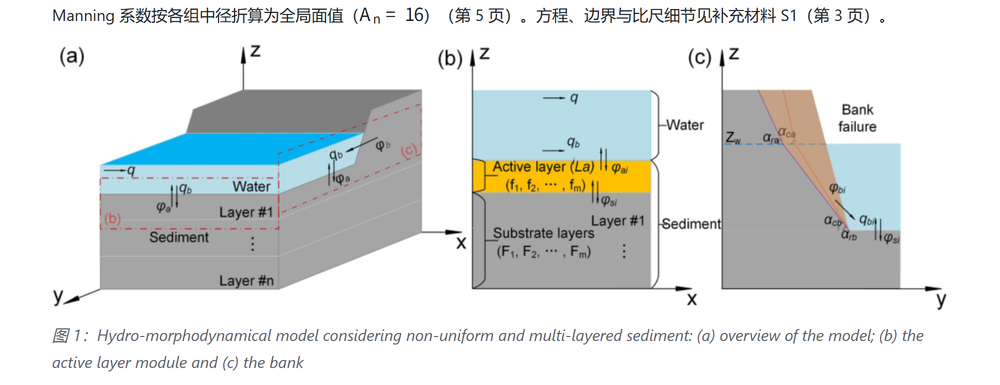
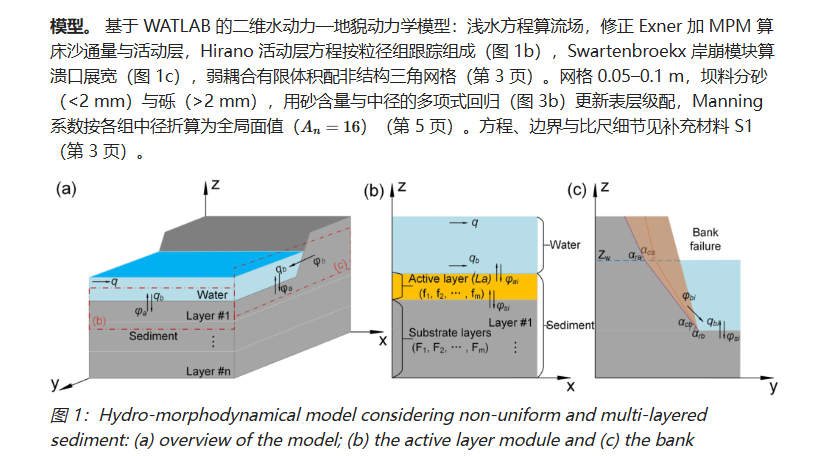
docs: 效果图换成 Obsidian 真实截图，索引图改用阅读层首页（#81）

diff --git a/docs/user-guide/cards/reading-in-obsidian.md b/docs/user-guide/cards/reading-in-obsidian.md
@@ -43,7 +43,7 @@ uv run hydrolitagent cards index --json   # 机器可读报告（含断链自检
 
 ## 现在的卡片长什么样
 
-下面几张图取自真实产物（`cards/82K3JP4F`、`cards/E7ZTFJZJ`、主题 `TH-877103b1db3d0e741b1577ae`），按阅读层排版渲染；在 Obsidian 里打开同一份文件，排版与公式渲染基本一致。
+下面几张图是把产物根当 vault 打开后的 Obsidian 截图（阅读视图；左侧边栏已收起），产物是 `cards/82K3JP4F`、`cards/E7ZTFJZJ` 与主题 `TH-877103b1db3d0e741b1577ae`。
 
 **卡片顶部**：属性、按 `validation.json` 写的真实状态（`PASS` / `REJECTED`）、标题与正文开头。
 
@@ -57,9 +57,9 @@ uv run hydrolitagent cards index --json   # 机器可读报告（含断链自检
 
 ![主题阅读页](../../assets/screenshots/theme-page.png){width=760}
 
-**卡片索引**：每篇论文只列当前选中的一份草稿，并写明选择依据。
+**阅读层首页**：`HOME.md` 一篇卡一行，点进去就是卡片；全部卡片另见 `cards/INDEX.md`（每篇只列当前选中的一份草稿，并写明选择依据）。
 
-![卡片索引](../../assets/screenshots/cards-index.png){width=760}
+![阅读层首页](../../assets/screenshots/reading-layer-home.png){width=760}
 
 **裸尖括号会被转义**：正文里的 `<CLASS>`、`<METHOD>` 这类模型写的占位符，在阅读层
 写成 `&lt;CLASS&gt;`。原因是 Obsidian 的 **Live Preview** 会把未知的未闭合 HTML 标签

diff --git a/docs/index.md b/docs/index.md
@@ -73,15 +73,15 @@ cd /path/to/mylibrary
 
 ## 产出的样子
 
-读一篇论文产出一张卡，多张卡再聚成候选主题 —— 图都来自真实产物（`outputs/cards/`、`outputs/reading/themes/`）。
+读一篇论文产出一张卡，多张卡再聚成候选主题 —— 下面的图是把产物根当 vault 打开后的 Obsidian 截图（`outputs/cards/`、`outputs/reading/themes/`）。
 
 | [![证据卡：属性、状态与正文](assets/screenshots/card-top.png)](user-guide/cards/reading-in-obsidian.md) | [![候选主题页](assets/screenshots/theme-page.png)](user-guide/cards/unified-theme-pool.md) |
 |---|---|
 | **证据卡** —— 顶部状态按 `validation.json` 写，正文连续成段，图内联在首次提及处 | **候选主题** —— 多篇卡聚成一个主题，每条判断挂 `EV-` 证据编号 |
 
-卡片按篇列在 `outputs/cards/INDEX.md` 里，每篇只列当前选中的一份草稿并写明选择依据：
+阅读层首页按篇列出全部卡片，一篇一行，点进去就是卡片：
 
-![卡片索引：每篇一条当前草稿](assets/screenshots/cards-index.png)
+![阅读层首页：一篇卡一行](assets/screenshots/reading-layer-home.png)
 
 ## 项目结构
 

diff --git a/README.md b/README.md
@@ -55,7 +55,7 @@ Two papers, turned into narrated Chinese explainers by the same workflow — col
 
 ### Evidence cards and theme pages
 
-One paper in, one card out; several cards then cluster into candidate themes. Every image below comes from real artifacts (`outputs/cards/`, `outputs/reading/themes/`):
+One paper in, one card out; several cards then cluster into candidate themes. Every image below is an Obsidian screenshot of the artifacts vault (`outputs/cards/`, `outputs/reading/themes/`):
 
 | [![Evidence card: properties, status, prose](docs/assets/screenshots/card-top.png)](docs/user-guide/cards/reading-in-obsidian.md) | [![Candidate theme page](docs/assets/screenshots/theme-page.png)](docs/user-guide/cards/unified-theme-pool.md) |
 |---|---|

diff --git a/README-zh.md b/README-zh.md
@@ -55,7 +55,7 @@ cp .env.example .env
 
 ### 文献卡与主题卡
 
-读一篇论文产出一张卡，多张卡再聚成候选主题。下面的图都来自真实产物（`outputs/cards/` 与 `outputs/reading/themes/`）：
+读一篇论文产出一张卡，多张卡再聚成候选主题。下面的图是把产物根当 vault 打开后的 Obsidian 截图（`outputs/cards/`、`outputs/reading/themes/`）：
 
 | [![证据卡：属性、状态与正文](docs/assets/screenshots/card-top.png)](docs/user-guide/cards/reading-in-obsidian.md) | [![候选主题页](docs/assets/screenshots/theme-page.png)](docs/user-guide/cards/unified-theme-pool.md) |
 |---|---|
